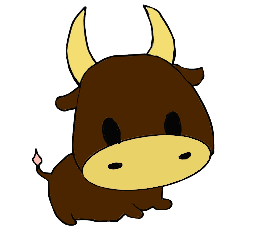
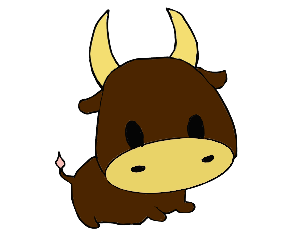
home page and buttons update

diff --git a/index.html b/index.html
@@ -4,6 +4,7 @@
 
 <head>
     <title>Bulls and Cows game</title>
+    <link rel="stylesheet" href="index.css"/>
 </head>
 
 <body>
@@ -41,20 +42,29 @@
     </script>
 
     <div id="home_scene_container" class="scene_container">
+
         
-        <div class = "bullsandcows">
-            <h2 >Bulls
-            <div>
-            <img src ="images/bullHomeScreen.png"  width="150" height="150">  
-             & 
-            <img src ="images/cowHomeScreen.png"  width="150" height="150"></div>
-            Cows</h2> 
+    <div id="home_scene_container" class="scene_container">
+
+        <div class="bullsandcows">
+            <h2>Bulls
+                <div class="homePageImages">
+
+                    <img class="bullImgRotate" src="images/bullHomeScreen.png" width="170" height="170">
+                    &
+                    <img class="cowImgRotate" src="images/cowHomeScreen.png" width="150" height="150">
+
+                </div>
+                Cows
+            </h2>
         </div>
-        <div >
-            <button>New Game</button>
-            <button>How to play</button>
+        <div class = "buttons">
+            <button class="buttonPlay" >New Game</button>
+            <button class="buttonPlay" >How to play</button>
         </div>
     </div>
+    </div>
+
 
 
     <div id="player_details_scene_container" class="scene_container">
@@ -80,7 +90,6 @@
             <button class="howToPlay">?</button>
         </div>
     </div>
-
 
     <div id="winning_page_scene_container" class="scene_container">
         <!-- here goes the HTML code -->

diff --git a/index.css b/index.css
@@ -5,6 +5,39 @@
     justify-content: center;
 
 }
+.buttonPlay {
+    display: inline-block;
+    padding: 14px 50px;
+    font-size: 24px;
+    text-align: center;
+    outline: none;
+    color: #fff;
+    background-color: rgb(139, 139, 139);
+    border: none;
+    border-radius: 1px;
+    box-shadow: 0 9px#474747 ;
+  }
+  
+  .buttonPlay:hover {background-color: #555555}
+  
+  .buttonPlay:active {
+    background-color: #555555;
+    box-shadow: 0 5px #363636;
+    transform: translateY(5px);
+  }
+  .buttons{
+      display: flex;
+      justify-content: space-between;
+      margin-bottom: 15px;
+  }
+.homePageImages {
+
+    display: flex;
+    align-content: center;
+    justify-content: center;
+    vertical-align: baseline;
+    font-size: 130px;
+}
 .bullsandcows {
     text-align: center;
     font-size: 75px;
@@ -88,3 +121,10 @@ form {
     right: 5px;
     top: 5px;
 }
+.cowImgRotate {
+    transform: rotate(20deg);
+  }
+  .bullImgRotate
+  {
+    transform: rotate(-20deg);
+  }
